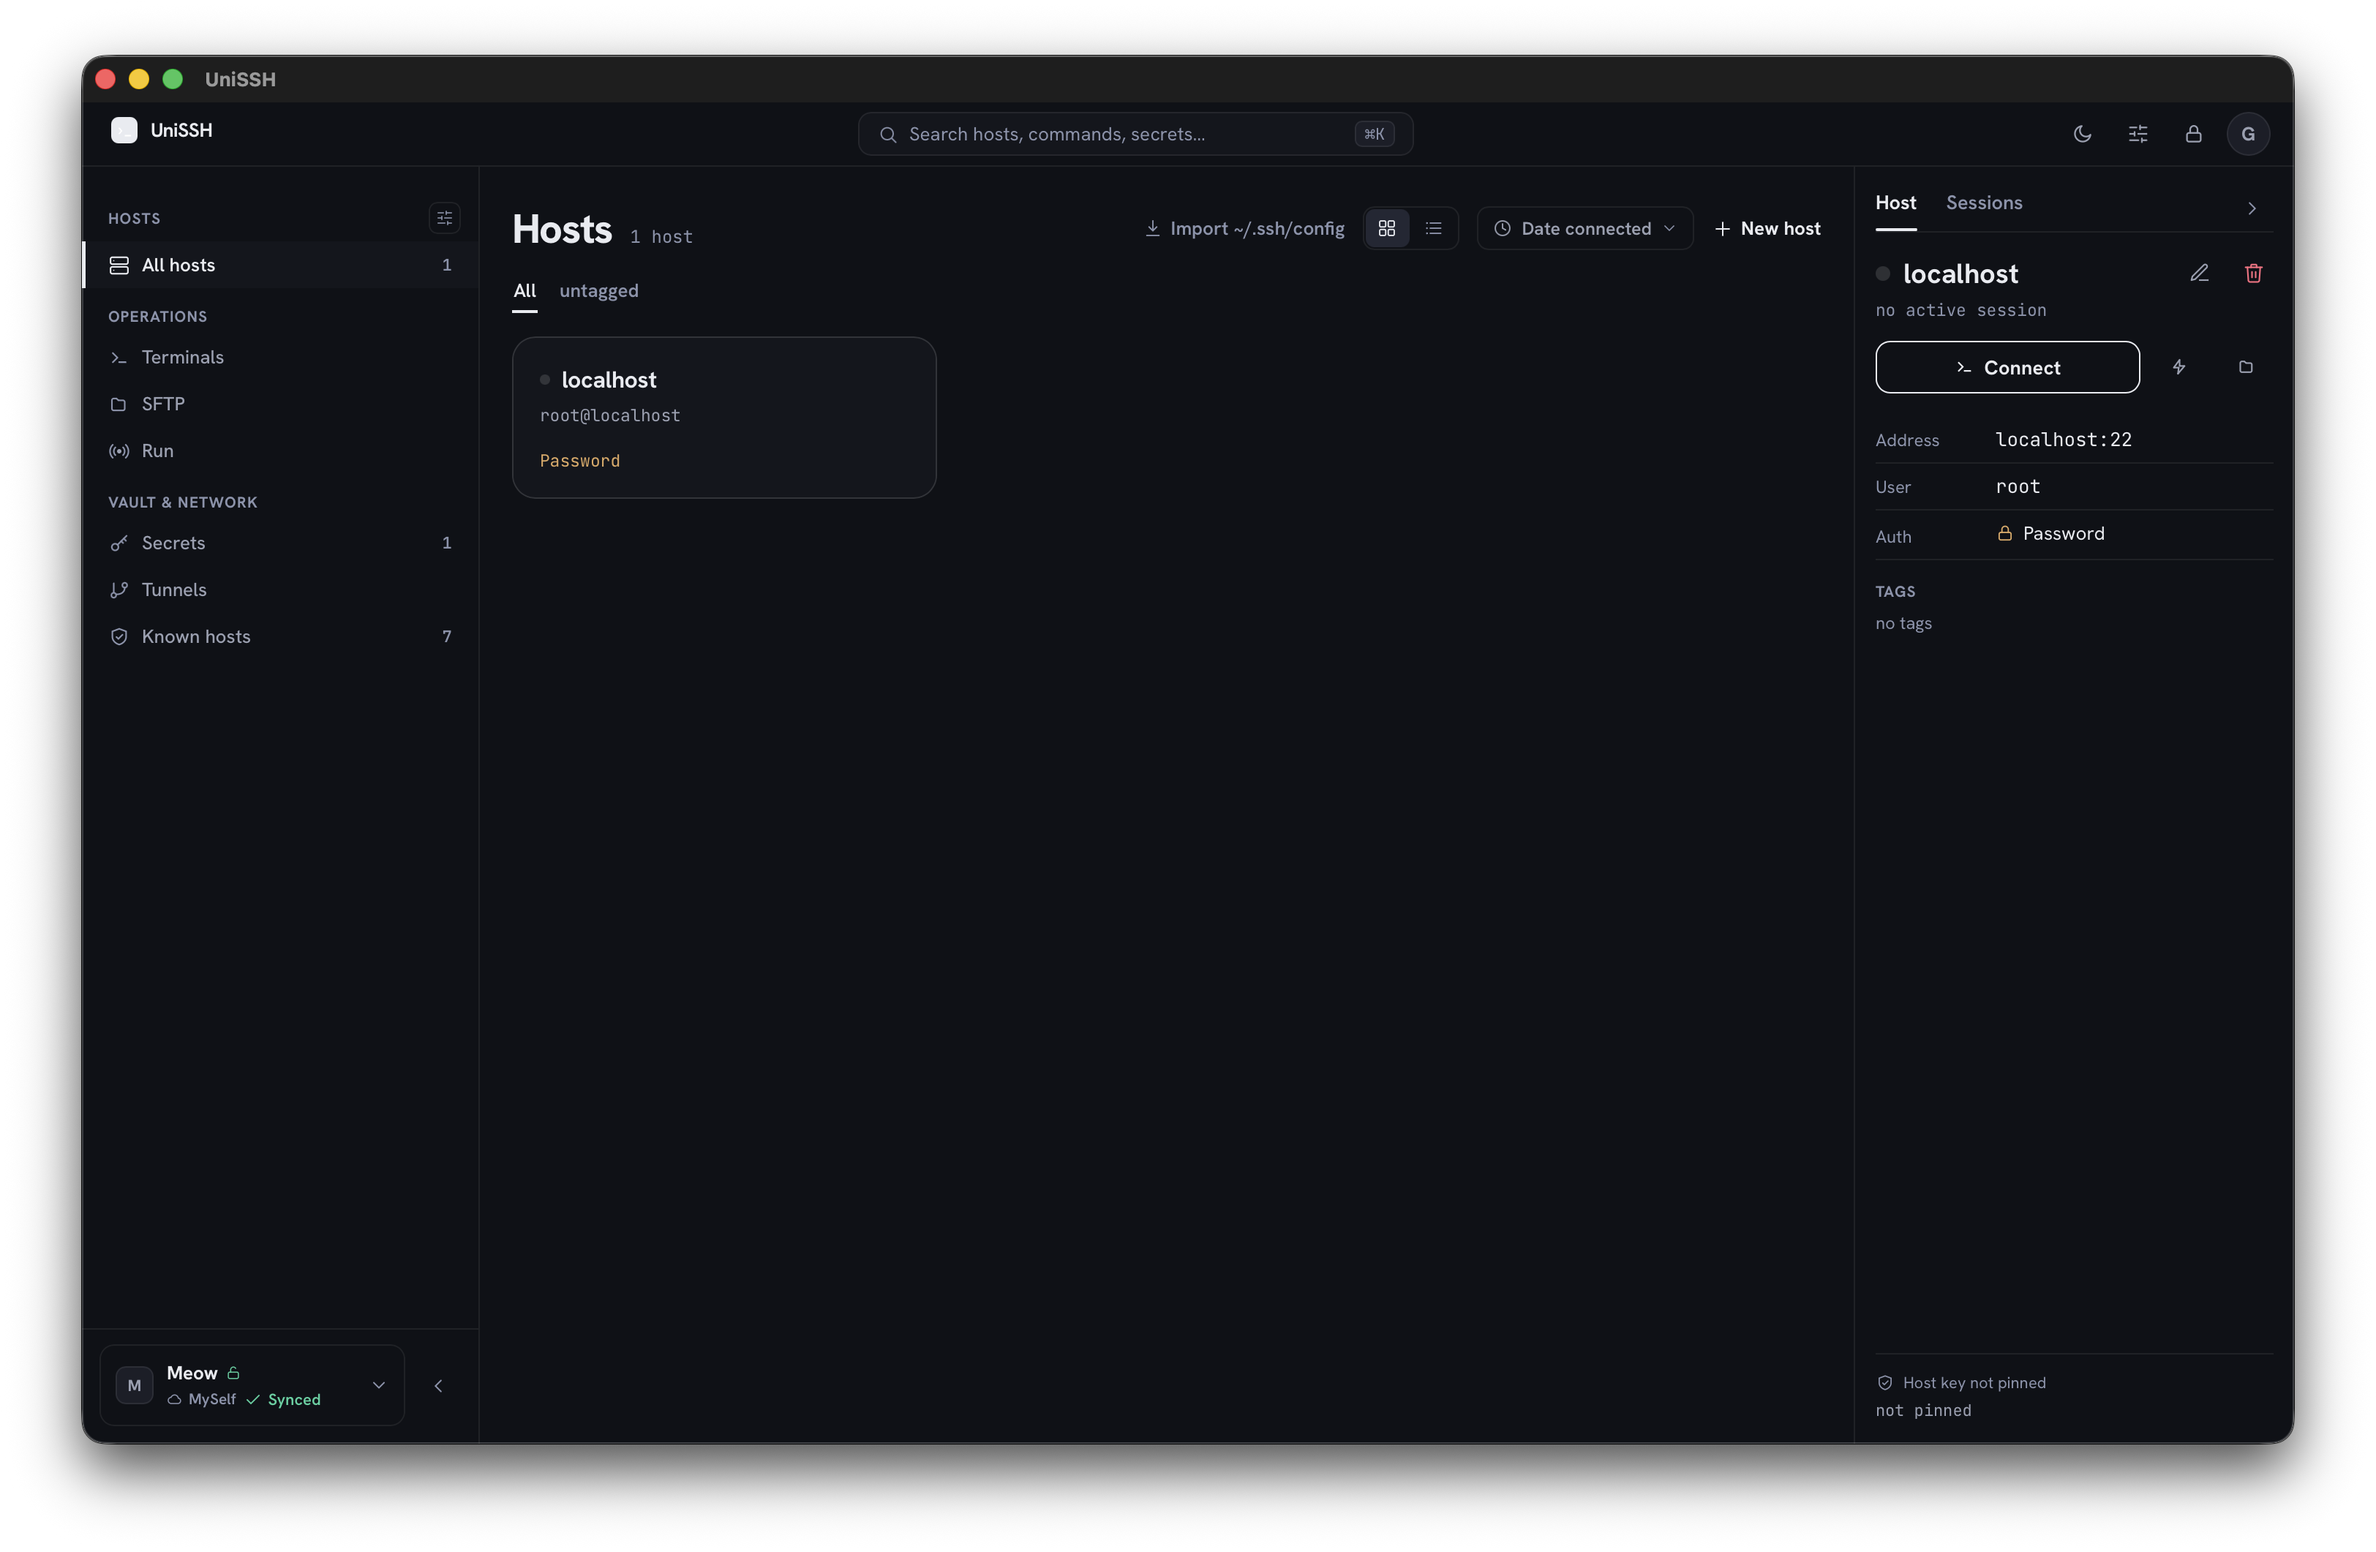
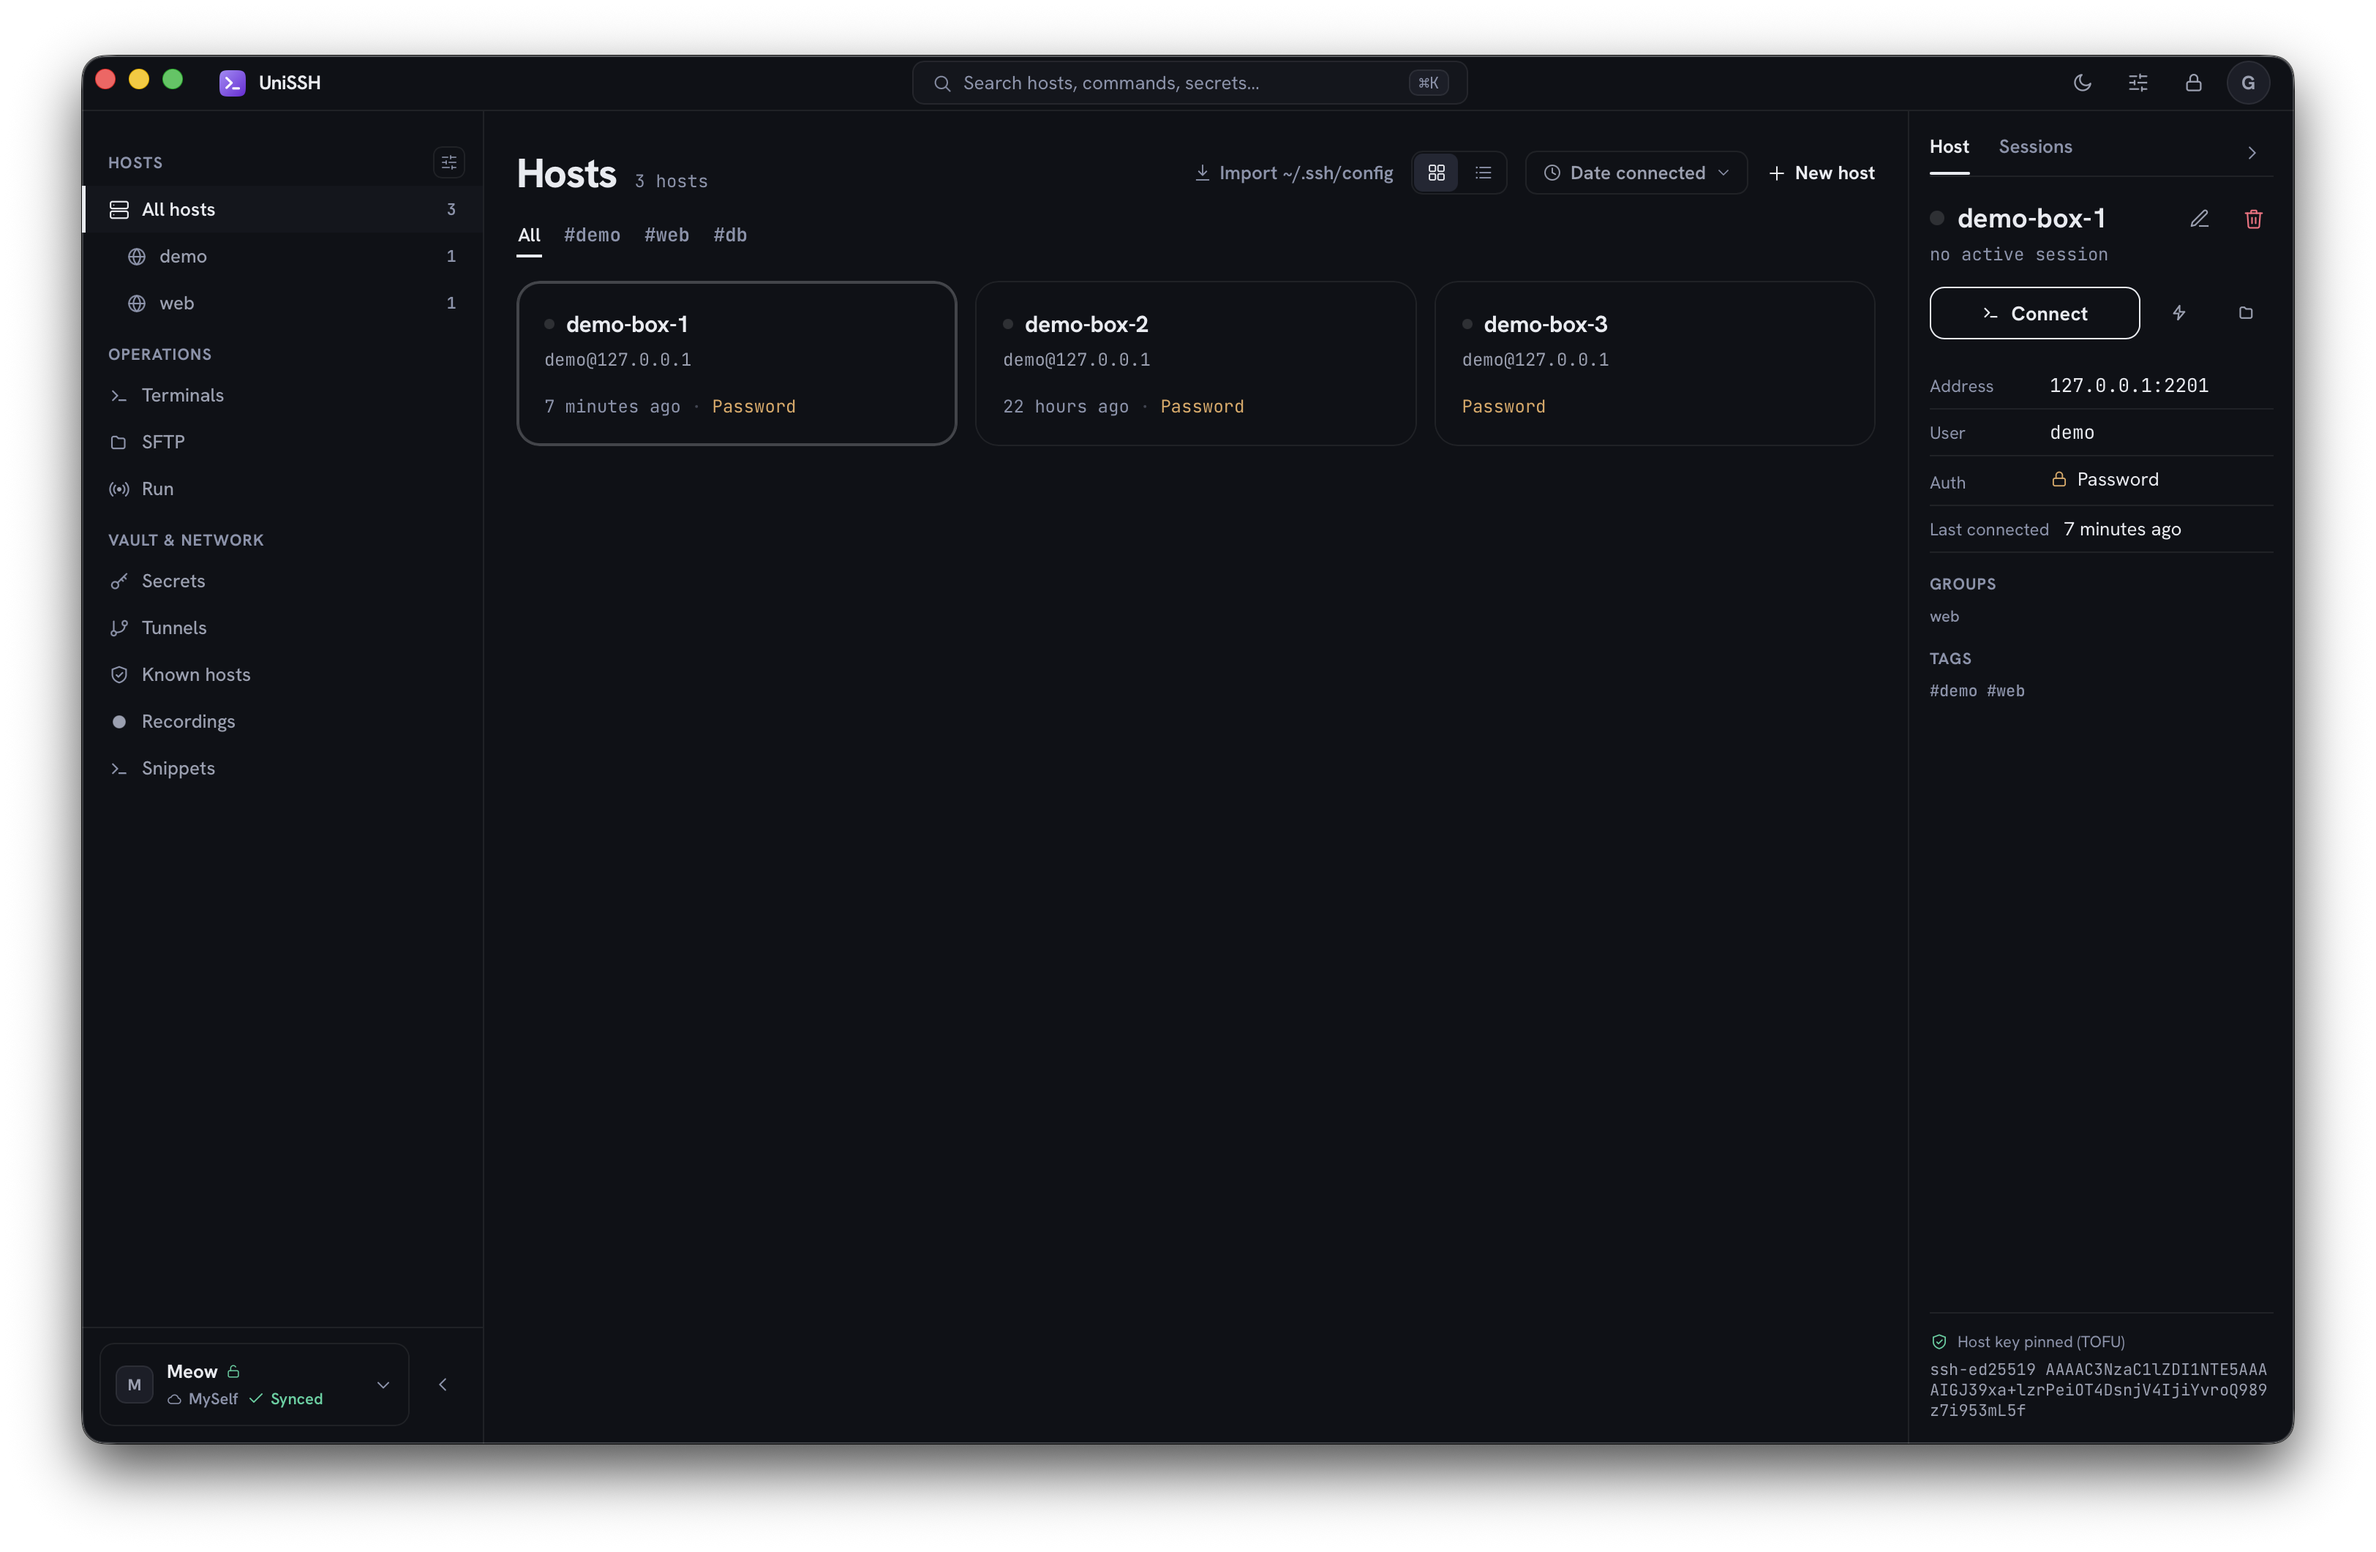
docs(screenshots): the rest of the client, and a fresher host library
The README promised "more captures — terminal · SFTP · fleet — land with the
first public release". That release came and went several versions ago and the
line was still there, so it is now kept rather than repeated: SFTP, Broadcast and
Fleet exec are shown inline, and the remaining six views ship alongside them in
docs/screenshots/ for anyone who wants to look without cloning.

hosts-dark.png is replaced rather than added to. The old one predates the icon
work, so it still carried the previous mark in its title bar — a hero image
showing a logo the app no longer has is worse than no hero image.

diff --git a/README.md b/README.md
@@ -124,7 +124,25 @@ Everything below is implemented in the shared Rust core and exposed to the clien
 
 The host library is shown [at the top](#unissh) — dark mode, with the operations rail (terminals, SFTP, run) and the vault & network group (secrets, tunnels, known hosts) on the left, and the selected host's connection, auth, and host-key status on the right.
 
-> _More captures — terminal · SFTP · fleet · the Barbie theme — land with the first public release._
+**SFTP, two panes.** Any pane can hold any location — a different host in each, or your own machine
+alongside a remote one. Permissions and modification times are shown for what they are: read-only
+facts about the file, not fields to edit here.
+
+<img src="docs/screenshots/sftp-dark.png" alt="UniSSH SFTP — two panes, each browsing a different host" width="900">
+
+**Broadcast.** One synchronized input mirrored to every live host at once, each tile showing that
+host's own output. Destructive commands re-confirm before they fan out.
+
+<img src="docs/screenshots/broadcast-dark.png" alt="UniSSH Broadcast — one input mirrored to three live hosts" width="900">
+
+**Fleet exec.** The same command run across a selection, with each host's exit code and timing
+reported separately — bounded concurrency, and a stop that actually skips hosts that have not started.
+
+<img src="docs/screenshots/fleet-exec-dark.png" alt="UniSSH Fleet exec — one command across three hosts with per-host exit codes" width="900">
+
+The rest of the client — terminal, secrets, tunnels, known hosts, recordings, snippets — and the
+server's admin panel are captured in [`docs/screenshots/`](docs/screenshots), viewable in the browser
+without cloning anything.
 
 ---
 
